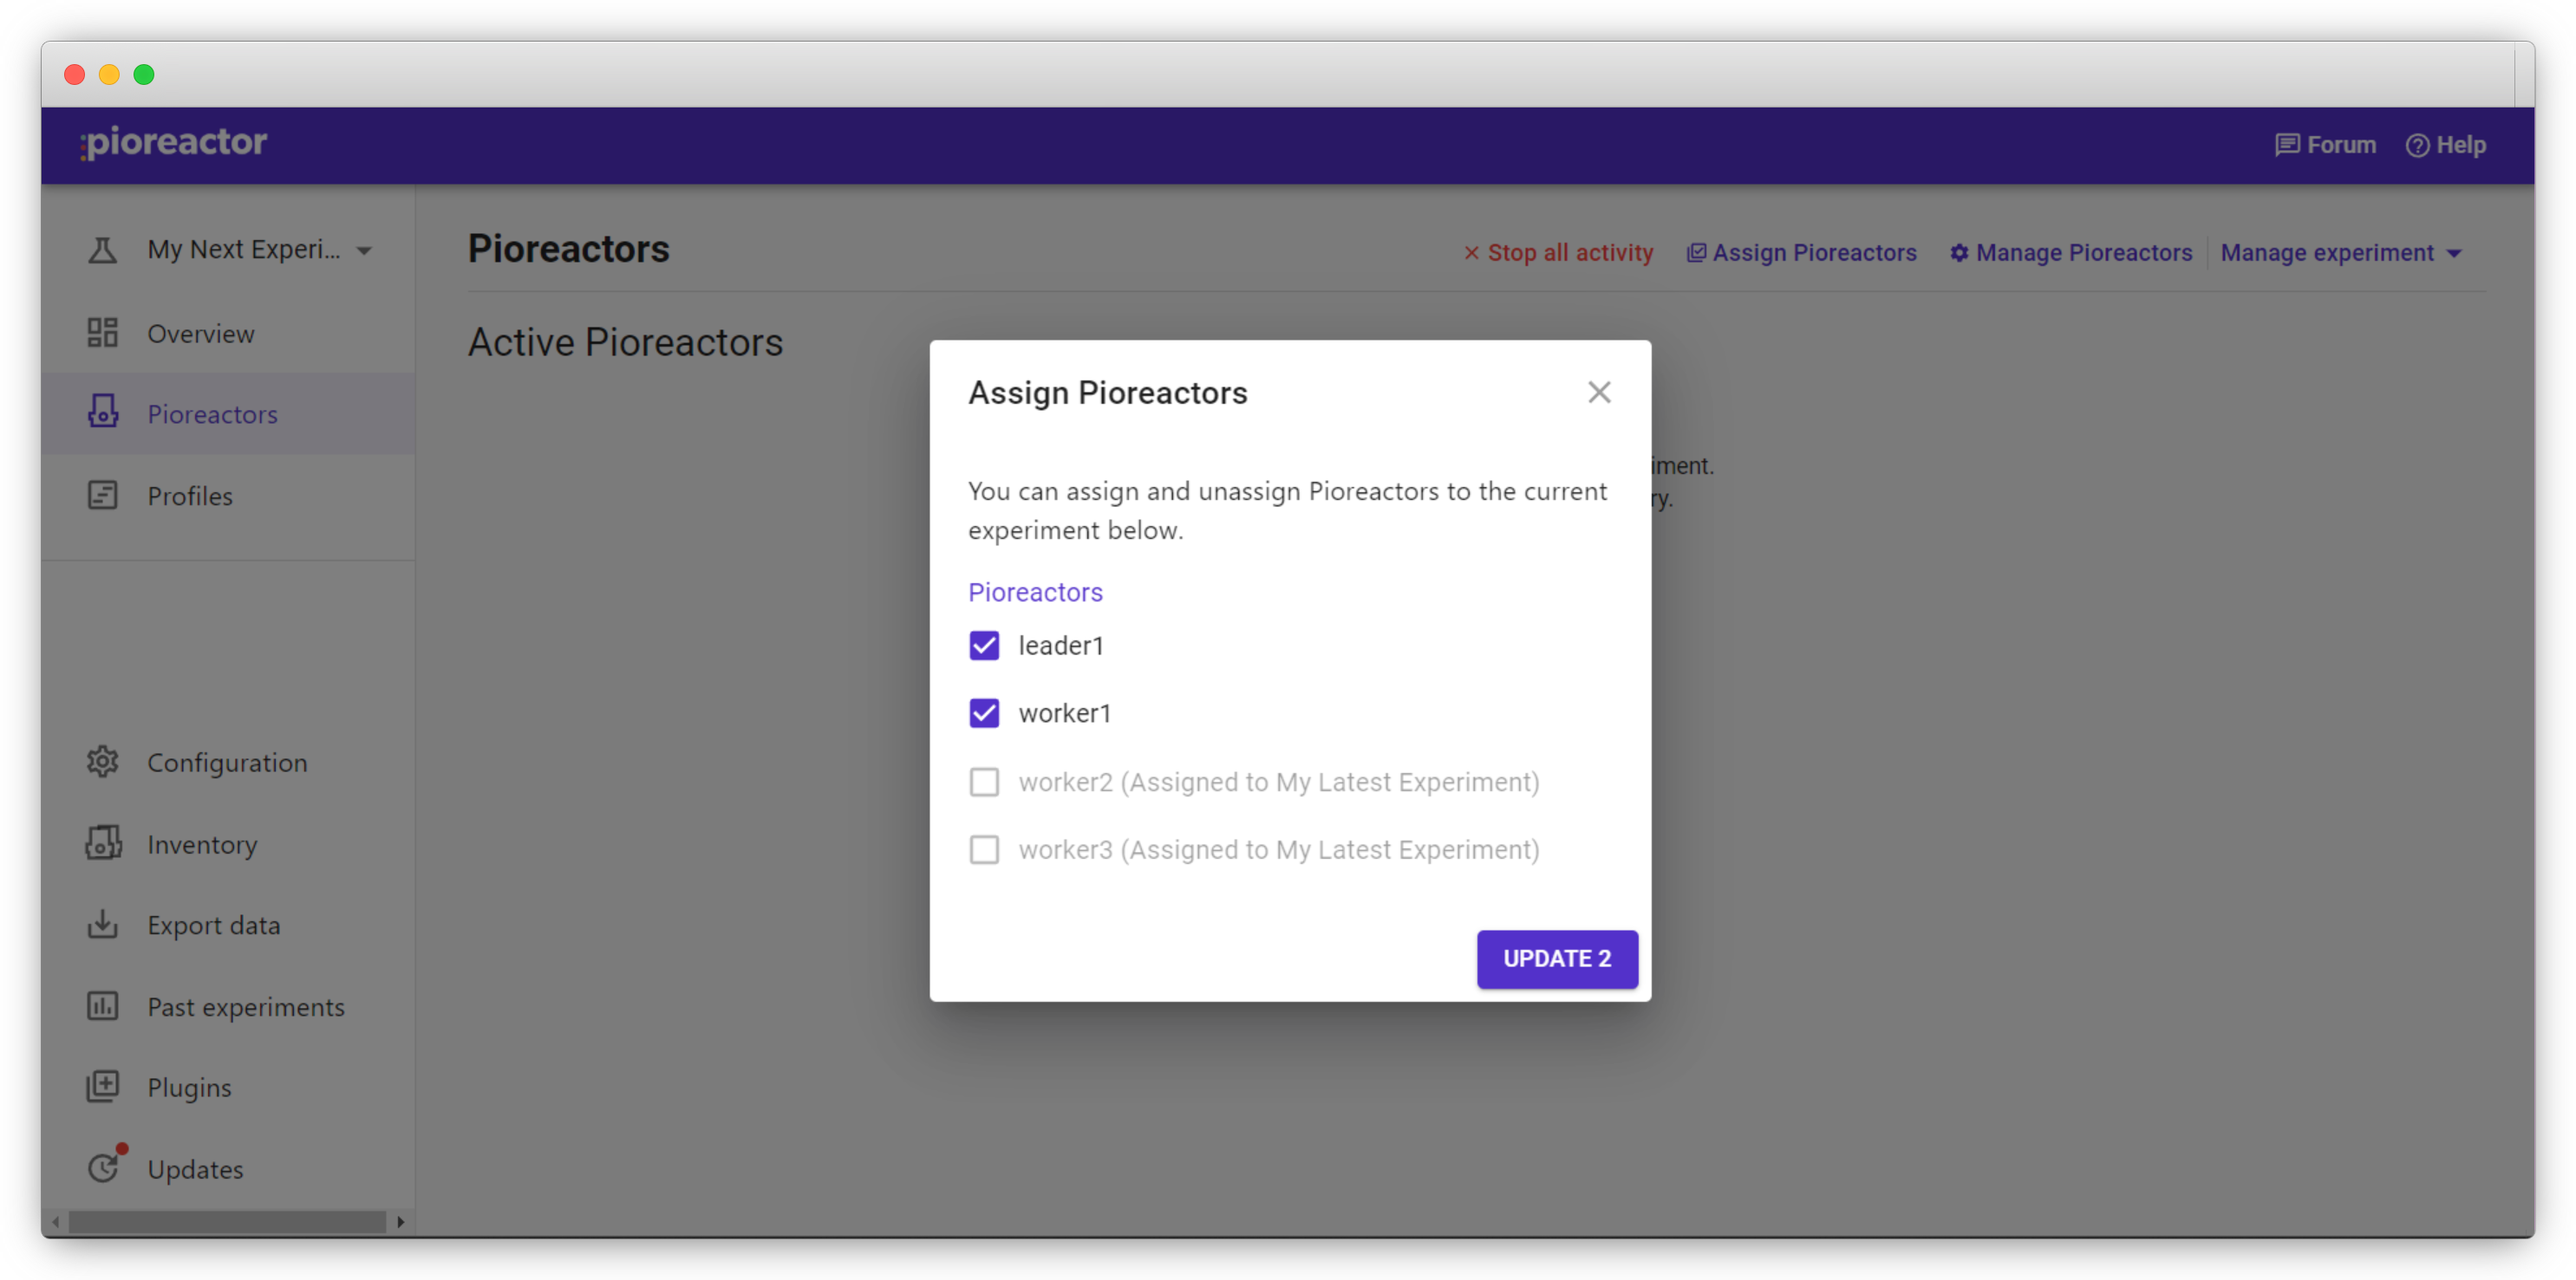
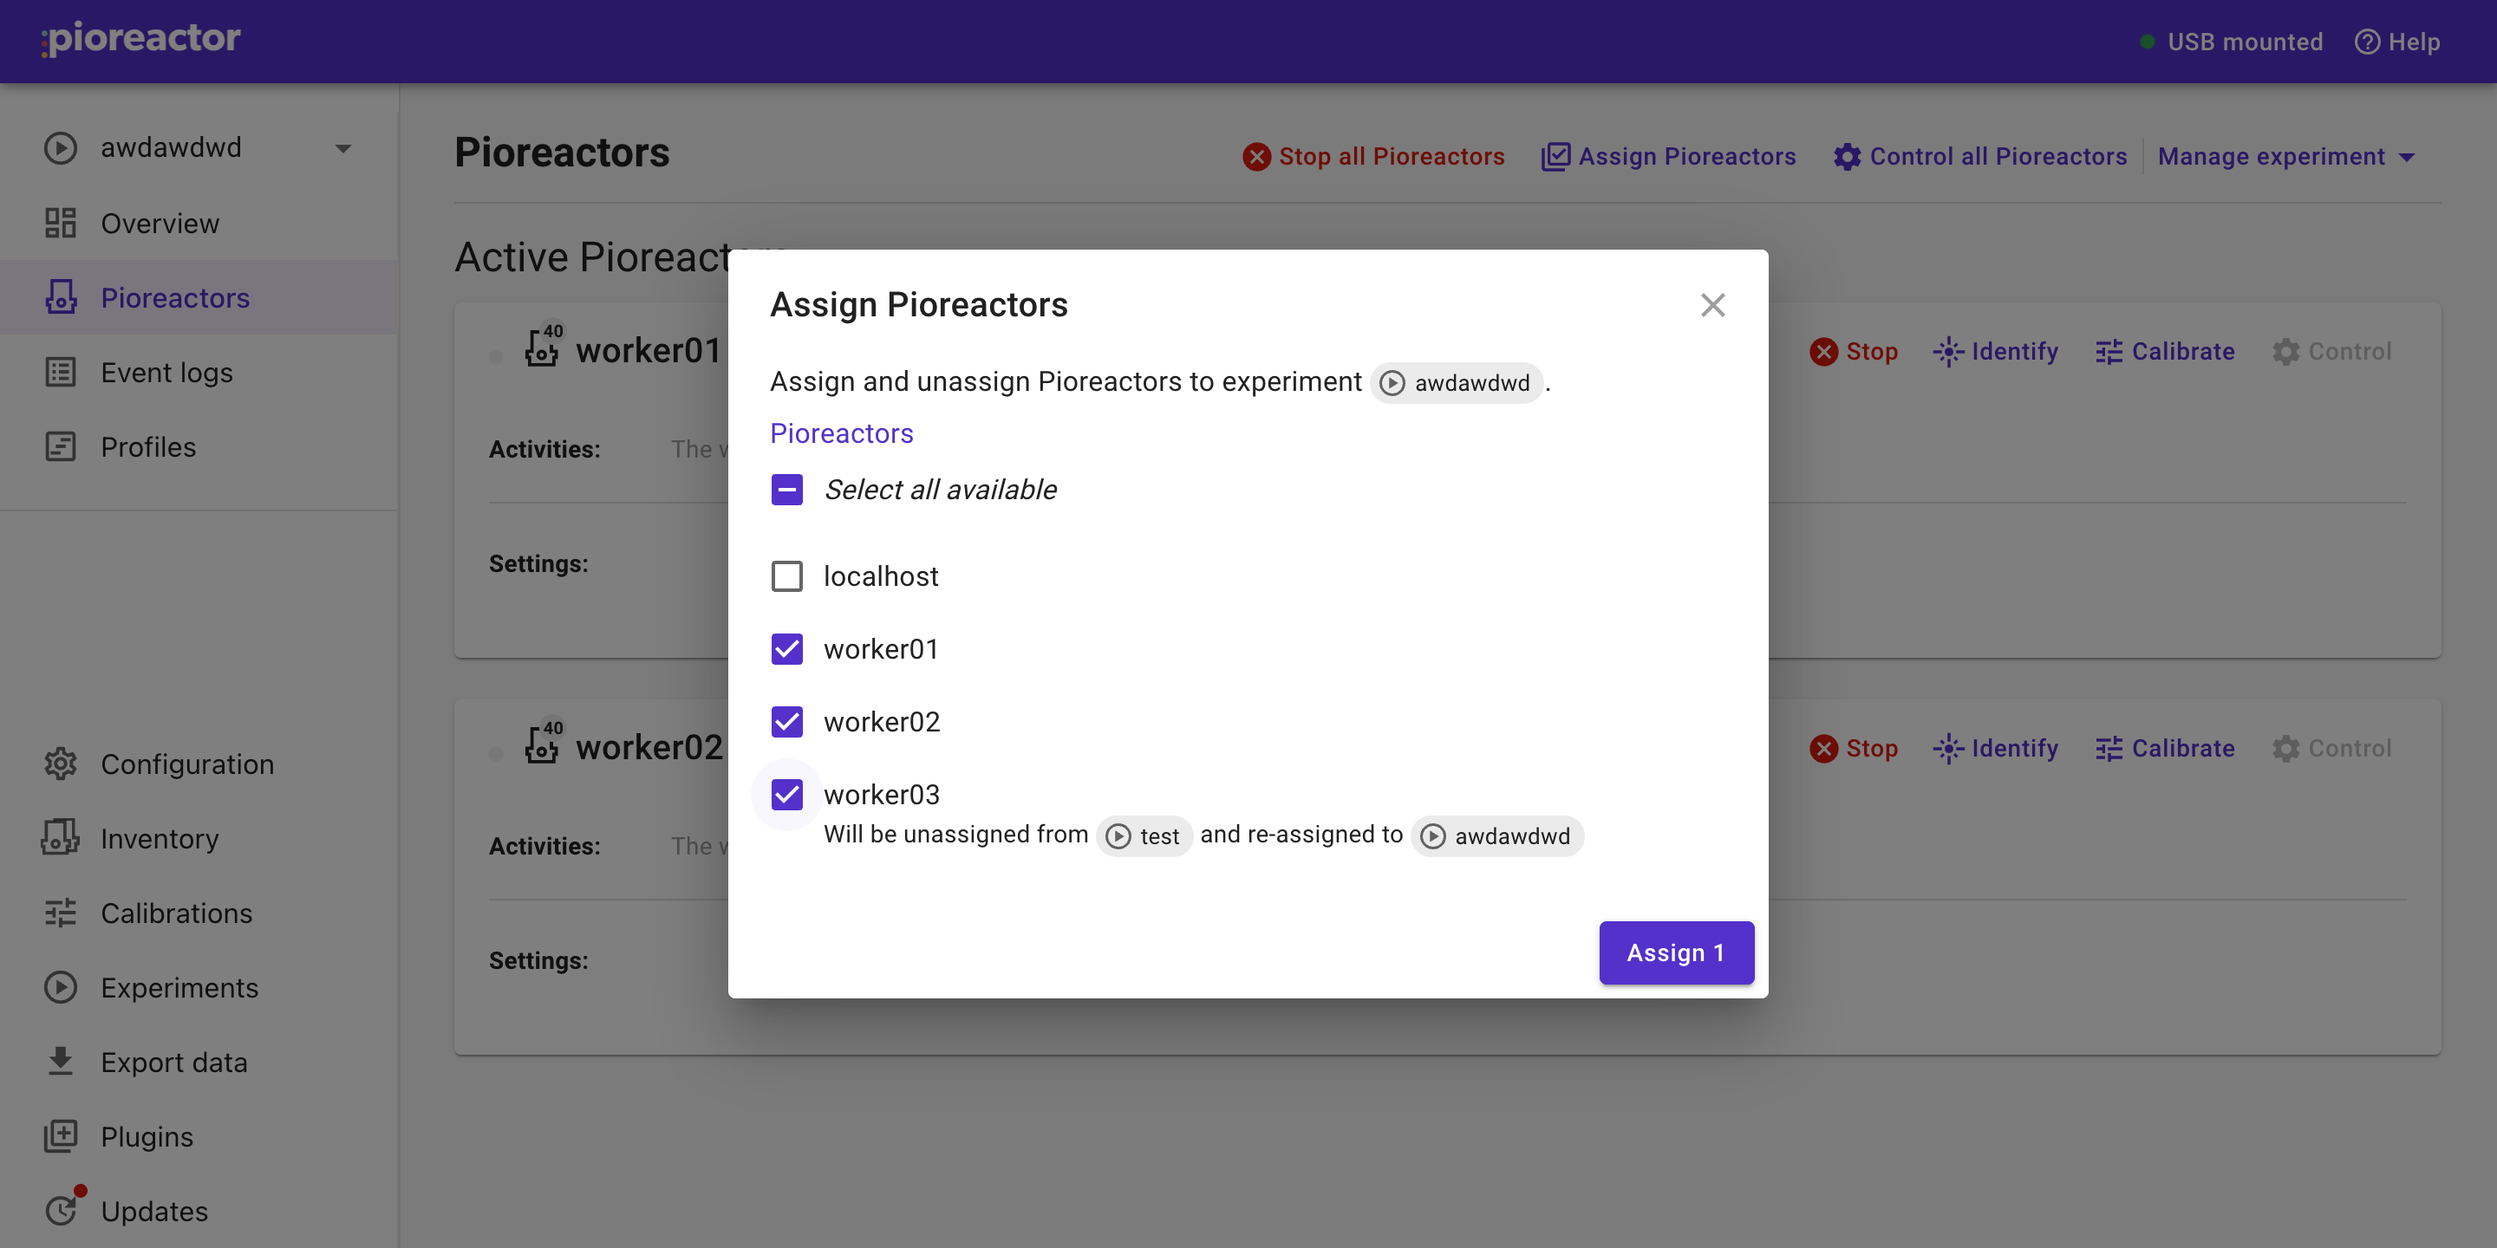
assigning docs

diff --git a/user-guide/02-Experiment basics/04-set-up-an-experiment.md b/user-guide/02-Experiment basics/04-set-up-an-experiment.md
@@ -29,12 +29,17 @@ After saving, you can come back to the experiment later from **Experiments**. Ta
 
 ### Assigning Pioreactors to your experiment
 
-The _Pioreactors_ tab will display any active and inactive Pioreactors assigned to the experiment. Click on "Assign Pioreactors" to assign pioreactors to the current experiment. 
+The **Pioreactors** tab displays the active and inactive Pioreactors assigned to the current experiment. Click **Assign Pioreactors** to choose which Pioreactors belong to this experiment.
 
 ![](/img/user-guide/02-experiment-basics/04-set-up-an-experiment/pioreactors-tab.png)
 
+You can run different experiments at the same time by assigning different Pioreactors to each experiment. For example, one experiment can use `worker01` and `worker02` while another experiment uses `worker03`.
+
+In the assignment dialog, a Pioreactor that is already assigned to another experiment is shown with that experiment name. Selecting it will unassign it from the other experiment and assign it to the current one.
 
 ![](/img/user-guide/02-experiment-basics/04-set-up-an-experiment/assign-pios-to-another-experiment.png)
+
+Unassigning a Pioreactor from an experiment stops its activities for that experiment. This applies whether you unassign it from the **Pioreactors** tab, reassign it to another experiment, or end the experiment.
 
 
 

diff --git a/user-guide/03-Extending your Pioreactor/01-cluster-management/02-power-cluster.md b/user-guide/03-Extending your Pioreactor/01-cluster-management/02-power-cluster.md
@@ -21,6 +21,7 @@ Individual PSUs don't scale very well, so below are some other options for power
  - Wattage per port: Make sure each port can supply at least 15 W.  **Do not get 5V 1A power supplies**.
  - Connection type: Raspberry Pis models have different power connectors. RPi 4 and 5 use USB-C, and everything else uses microUSB. You may need to purchase USB-C to microUSB wires.
  - Speaking of the wires from the PSU to the Raspberry Pi: make them **as short as possible**. Longer cables increase resistance, leading to unnecessary power loss. 
+ - If power interruptions are a concern, try using a UPS (uninterruptible power supply) between the wall outlet and the power supply for your Pioreactor cluster.
 
 
  Recommendations:
@@ -35,7 +36,6 @@ For more than 6 Pioreactors, we recommend looking into more reputable and reliab
 
 
 Generally, for any power supply, the same ideas apply as above: look for at minimum 15 W per output. Also look for certifications and over heating protection.
-
 
 
 

diff --git a/user-guide/03-Extending your Pioreactor/04-Experiment Profiles/10-experiment-profiles-schema.md b/user-guide/03-Extending your Pioreactor/04-Experiment Profiles/10-experiment-profiles-schema.md
@@ -451,7 +451,7 @@ pioreactors:
   if: <bool_or_expression>
   options: {<option_name>: <value>}  # expressions allowed via ${{ }}
   args: [<string>, ...]
-  config_overrides: {<config_name>: <value>}
+  config_overrides: {<config_name>: <value>}  # expressions allowed via ${{ }}
 
 - type: update
   t: <time_string_or_float>
